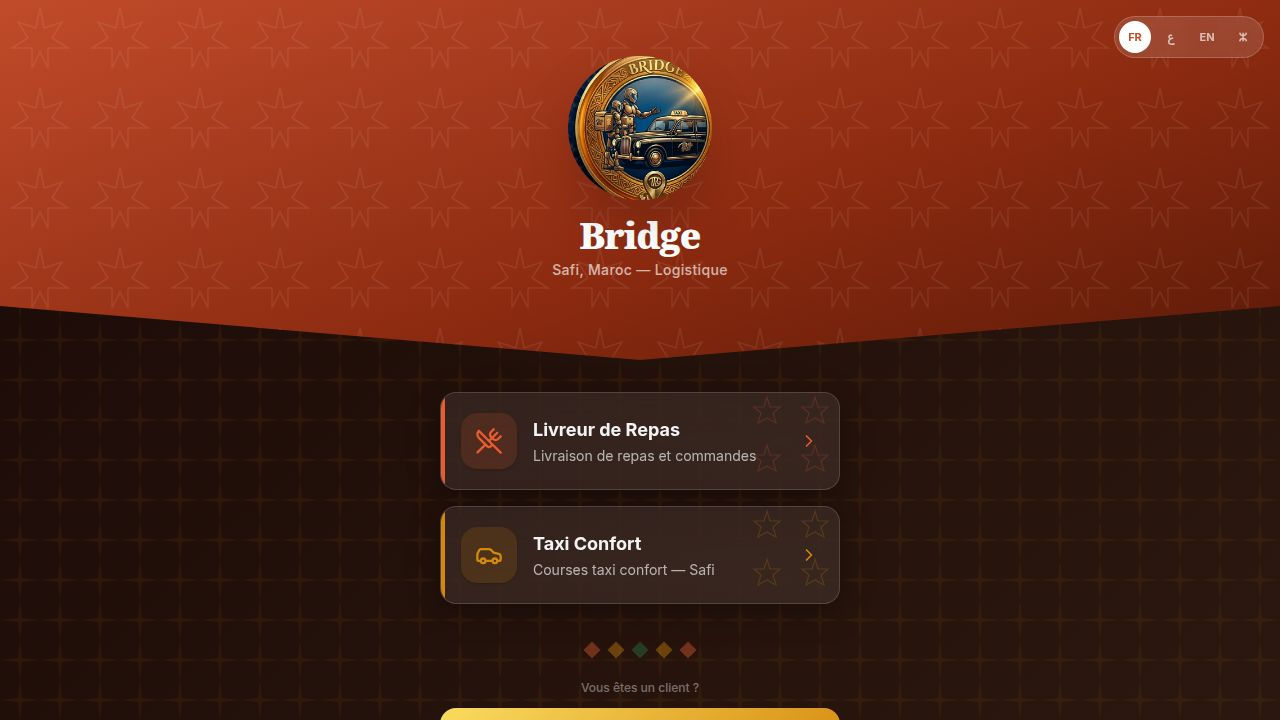
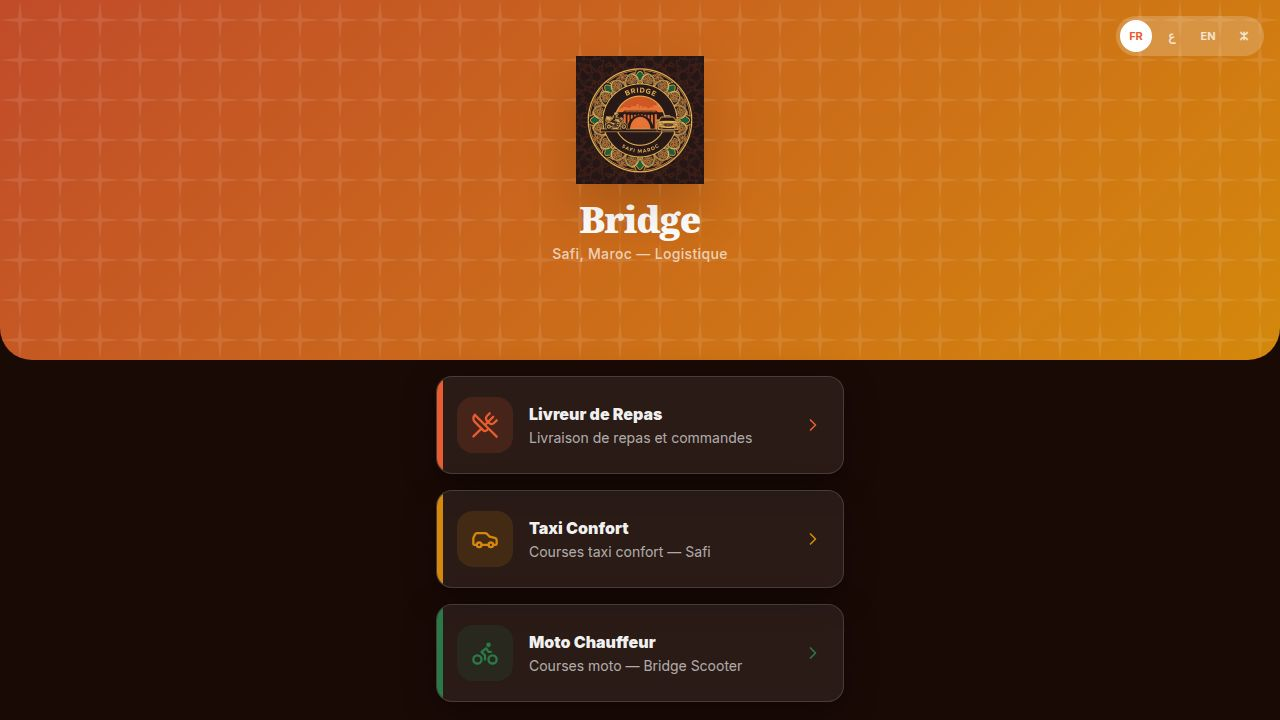
Separate driver types and improve navigation across the app
Introduces distinct routes and guards for chauffeur and moto taxi drivers, dynamically adjusts navigation based on vehicle type, and refactors login logic to redirect users to their respective dashboards. Also formats distance display and resolves import issues.

Replit-Commit-Author: Agent
Replit-Commit-Session-Id: 7bdda756-45c5-4c37-a27f-79b721aa4ada
Replit-Commit-Checkpoint-Type: full_checkpoint
Replit-Commit-Event-Id: b3b3322b-0a8f-499d-9022-c81f7cbb9f87
Replit-Commit-Screenshot-Url: https://storage.googleapis.com/screenshot-production-us-central1/406ae05e-3483-4224-927f-5b1b34d56fb4/7bdda756-45c5-4c37-a27f-79b721aa4ada/s3e1NuA
Replit-Helium-Checkpoint-Created: true

diff --git a/artifacts/driver-app/src/App.tsx b/artifacts/driver-app/src/App.tsx
@@ -38,6 +38,14 @@ function LivreurGuard({ component: Component }: { component: React.ComponentType
 function ChauffeurGuard({ component: Component }: { component: React.ComponentType }) {
   const { chauffeur } = useAuth();
   if (!chauffeur) return <Redirect to="/chauffeur/login" />;
+  if (chauffeur.vehicleType === "moto") return <Redirect to="/moto" />;
+  return <Component />;
+}
+
+function MotoGuard({ component: Component }: { component: React.ComponentType }) {
+  const { chauffeur } = useAuth();
+  if (!chauffeur) return <Redirect to="/moto/login" />;
+  if (chauffeur.vehicleType !== "moto") return <Redirect to="/chauffeur" />;
   return <Component />;
 }
 
@@ -55,15 +63,21 @@ function Router() {
       <Route path="/livreur/livraison/:id">{() => <LivreurGuard component={LivreurLivraisonDetail} />}</Route>
       <Route path="/livreur/profil">{() => <LivreurGuard component={LivreurProfil} />}</Route>
 
-      {/* Chauffeur Auth */}
+      {/* Auth pages */}
       <Route path="/chauffeur/login" component={ChauffeurLogin} />
       <Route path="/moto/login" component={MotoLogin} />
 
-      {/* Chauffeur Routes (protected) */}
+      {/* Taxi Confort Routes — car drivers only */}
       <Route path="/chauffeur">{() => <ChauffeurGuard component={ChauffeurDashboard} />}</Route>
       <Route path="/chauffeur/trajets">{() => <ChauffeurGuard component={ChauffeurTrajets} />}</Route>
       <Route path="/chauffeur/trajet/:id">{() => <ChauffeurGuard component={ChauffeurTrajetDetail} />}</Route>
       <Route path="/chauffeur/profil">{() => <ChauffeurGuard component={ChauffeurProfil} />}</Route>
+
+      {/* Moto Taxi Routes — moto drivers only */}
+      <Route path="/moto">{() => <MotoGuard component={ChauffeurDashboard} />}</Route>
+      <Route path="/moto/trajets">{() => <MotoGuard component={ChauffeurTrajets} />}</Route>
+      <Route path="/moto/trajet/:id">{() => <MotoGuard component={ChauffeurTrajetDetail} />}</Route>
+      <Route path="/moto/profil">{() => <MotoGuard component={ChauffeurProfil} />}</Route>
 
       {/* Password reset (public) */}
       <Route path="/forgot-password" component={ForgotPassword} />

diff --git a/artifacts/driver-app/src/components/layout/ChauffeurLayout.tsx b/artifacts/driver-app/src/components/layout/ChauffeurLayout.tsx
@@ -39,10 +39,11 @@ export function ChauffeurLayout({ children }: { children: ReactNode }) {
     );
   }, [driverId, driverStatus, updateDriver, queryClient]);
 
+  const base = chauffeur?.vehicleType === "moto" ? "/moto" : "/chauffeur";
   const navItems = [
-    { href: "/chauffeur", icon: Home, label: t("nav_dashboard") },
-    { href: "/chauffeur/trajets", icon: MapPin, label: t("nav_trips") },
-    { href: "/chauffeur/profil", icon: User, label: t("nav_profile") },
+    { href: base, icon: Home, label: t("nav_dashboard") },
+    { href: `${base}/trajets`, icon: MapPin, label: t("nav_trips") },
+    { href: `${base}/profil`, icon: User, label: t("nav_profile") },
   ];
 
   const langLabels: Record<string, string> = { fr: "FR", ar: "ع", en: "EN", tzm: "ⵣ" };
@@ -197,8 +198,8 @@ export function ChauffeurLayout({ children }: { children: ReactNode }) {
         </div>
 
         {/* Photo required banner */}
-        {profile && !hasPhoto && location !== "/chauffeur/profil" && (
-          <Link href="/chauffeur/profil">
+        {profile && !hasPhoto && location !== `${base}/profil` && (
+          <Link href={`${base}/profil`}>
             <div
               className="flex items-center gap-3 px-4 py-3 border-b cursor-pointer"
               style={{ background: isDark ? "rgba(42,10,0,0.6)" : "#FFF3CD", borderColor: isDark ? "rgba(212,136,12,0.3)" : "#F5D98A" }}

diff --git a/artifacts/driver-app/src/pages/chauffeur/index.tsx b/artifacts/driver-app/src/pages/chauffeur/index.tsx
@@ -20,6 +20,7 @@ export default function ChauffeurDashboard() {
   const { t } = useI18n();
   const { chauffeur } = useAuth();
   const DRIVER_ID = chauffeur?.id ?? 0;
+  const base = chauffeur?.vehicleType === "moto" ? "/moto" : "/chauffeur";
 
   const { data: stats, isLoading: statsLoading } = useGetTripStats({ driverId: DRIVER_ID }, {
     query: { queryKey: getGetTripStatsQueryKey({ driverId: DRIVER_ID }) }
@@ -43,7 +44,7 @@ export default function ChauffeurDashboard() {
   const statCards = [
     { icon: Route,       label: t("nav_trips"),  value: stats?.completedToday || 0,        color: "#F59E0B", bg: "#FFFBEB" },
     { icon: DollarSign,  label: t("earnings"),   value: `${stats?.earningsToday || 0} MAD`, color: "#10B981", bg: "#ECFDF5" },
-    { icon: Navigation,  label: t("distance"),   value: `${stats?.totalKmToday || 0} km`,  color: "#3B82F6", bg: "#EFF6FF" },
+    { icon: Navigation,  label: t("distance"),   value: `${parseFloat(Number(stats?.totalKmToday || 0).toFixed(1))} km`,  color: "#3B82F6", bg: "#EFF6FF" },
     { icon: Activity,    label: t("avg_time"),   value: `${stats?.averageFare || 0} MAD`,  color: "#FF4B4B", bg: "#FFF0F0" },
   ];
 
@@ -88,7 +89,7 @@ export default function ChauffeurDashboard() {
         <div className="space-y-4 px-4 mt-5 pb-6">
           <div className="flex items-center justify-between">
             <h2 className="text-lg font-bold" style={{ color: BROWN }}>{t("trip_active")}</h2>
-            <Link href="/chauffeur/trajets">
+            <Link href={`${base}/trajets`}>
               <span className="text-sm font-semibold flex items-center gap-0.5" style={{ color: GOLD }}>
                 {t("history")} <span className="ml-1">→</span>
               </span>
@@ -144,7 +145,7 @@ export default function ChauffeurDashboard() {
                   </div>
 
                   <div className="px-5 pb-4 flex gap-3">
-                    <Link href={`/chauffeur/trajet/${trip.id}`} className="flex-1">
+                    <Link href={`${base}/trajet/${trip.id}`} className="flex-1">
                       <button
                         className="w-full py-2 rounded-xl border text-sm font-semibold"
                         style={{ borderColor: BORDER, color: BROWN, background: "rgba(255,255,255,0.06)" }}

diff --git a/artifacts/driver-app/src/pages/moto/login.tsx b/artifacts/driver-app/src/pages/moto/login.tsx
@@ -18,7 +18,7 @@ export default function MotoLogin() {
   const { chauffeur, loginChauffeur } = useAuth();
 
   useEffect(() => {
-    if (chauffeur) navigate("/chauffeur");
+    if (chauffeur) navigate(chauffeur.vehicleType === "moto" ? "/moto" : "/chauffeur");
   }, [chauffeur]);
 
   const [email, setEmail] = useState("");
@@ -47,7 +47,7 @@ export default function MotoLogin() {
         }
         loginChauffeur({ id: data.id, name: data.name, phone: data.phone, role: "chauffeur", vehicleType: "moto" });
         if (isPushSupported()) subscribeToPush({ driverId: data.id }).catch(() => {});
-        navigate("/chauffeur");
+        navigate("/moto");
       } else {
         setError(data.error || "Identifiants incorrects");
       }

diff --git a/artifacts/driver-app/src/pages/chauffeur/trajets.tsx b/artifacts/driver-app/src/pages/chauffeur/trajets.tsx
@@ -34,6 +34,7 @@ export default function ChauffeurTrajets() {
   const { t } = useI18n();
   const { chauffeur } = useAuth();
   const DRIVER_ID = chauffeur?.id ?? 0;
+  const base = chauffeur?.vehicleType === "moto" ? "/moto" : "/chauffeur";
   const [statusFilter, setStatusFilter] = useState<string>("all");
   const [searchQuery, setSearchQuery] = useState("");
 
@@ -196,7 +197,7 @@ export default function ChauffeurTrajets() {
                           </Button>
                         )}
 
-                        <Link href={`/chauffeur/trajet/${trip.id}`} className="w-full">
+                        <Link href={`${base}/trajet/${trip.id}`} className="w-full">
                           <Button variant="outline" className="w-full" style={{ borderColor: BORDER, color: BROWN_MID, background: "rgba(255,255,255,0.08)" }}>
                             {t("details")}
                           </Button>

diff --git a/artifacts/driver-app/src/pages/chauffeur/login.tsx b/artifacts/driver-app/src/pages/chauffeur/login.tsx
@@ -20,7 +20,7 @@ export default function ChauffeurLogin() {
   const { t } = useI18n();
 
   useEffect(() => {
-    if (chauffeur) navigate("/chauffeur");
+    if (chauffeur) navigate(chauffeur.vehicleType === "moto" ? "/moto" : "/chauffeur");
   }, [chauffeur]);
 
   const [email, setEmail] = useState("");